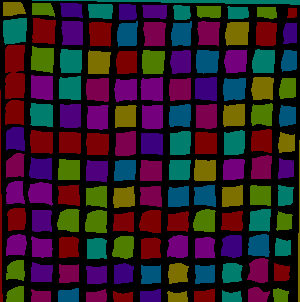
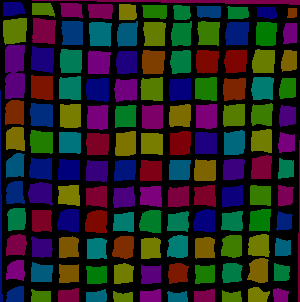
hsv mod

diff --git a/impIMG.py b/impIMG.py
@@ -1,5 +1,5 @@
 # Here we go
-
+import time
 import cv2
 import sys
 import random
@@ -8,9 +8,9 @@ def show(im):
 	cv2.imshow('image',im)
 	cv2.waitKey(0)
 
-def imin():
+def imin(fn):
 
-	im = cv2.imread("grid.png")
+	im = cv2.imread(fn)
 	
 	gim = cv2.cvtColor(im, cv2.COLOR_BGR2GRAY)
 
@@ -68,19 +68,10 @@ class swampland:
 		self.baseHSV_Sets = []
 		satBase = 255
 		valBase = 125
-		base_color_pool = [
-			[  int(0/360*179),satBase,valBase],
-			[ int(55/360*179),satBase,valBase],
-			[ int(84/360*179),satBase,valBase],
-			[int(173/360*179),satBase,valBase],
-			[int(270/360*179),satBase,valBase],
-			[int(281/360*179),satBase,valBase],
-			[int(298/360*179),satBase,valBase],
-			[int(325/360*179),satBase,valBase],
-			[int(360/360*179),satBase,valBase],
-			[int(200/360*179),satBase,valBase]
-			# [int(360),0,125]
-		]
+		# HueList = [0,55,84,173,200,270,281,298,325,360]
+		HueList = [i for i in range(0,360)]
+		base_color_pool = [[Hue*179/360,satBase,valBase] for Hue in HueList]
+
 		i = 0
 		for pog in porg:
 			if i == len(base_color_pool): i = 0
@@ -92,30 +83,51 @@ class swampland:
 
 		self.hsvPaintIT()
 
+	def getLen(self):
+		return(len(self.coordsets))
+
+	def modSAT(self,i,val):
+		for pix in self.coordsets[i]:
+			self.imOUT[pix[0],pix[1]][1] = val
+
+	def modHUE(self,i,val):
+		for pix in self.coordsets[i]:
+			self.imOUT[pix[0],pix[1]][0] = val
+
+	def modVAL(self,i,val):
+		for pix in self.coordsets[i]:
+			self.imOUT[pix[0],pix[1]][2] = val
+
+
+	def write(self):
+		cv2.imwrite('hodor.png',cv2.cvtColor(self.imOUT,cv2.COLOR_HSV2BGR))
 
 	def hsvPaintIT(self):
-		self.imOUT
 		for i in range(0,len(self.coordsets)):
 			for pix in self.coordsets[i]:
-				# print(self.baseHSV_Sets[i])
 				self.imOUT[pix[0],pix[1]] = self.baseHSV_Sets[i]
 
 
-
-
-if __name__ == '__main__':
+def initObj(fn):
 	# sys.setrecursionlimit(40000)
-	im = imin()
+	im = imin(fn)
 	patches = HellDriver(im)
 	pim = paint_it(patches,im)
 	# show(pim)
-	cv2.imwrite('coloredin.png',pim)
+	# cv2.imwrite('coloredin.png',pim)
 	cpim = cv2.cvtColor(pim,cv2.COLOR_GRAY2BGR)
 	hpim = cv2.cvtColor(cpim,cv2.COLOR_BGR2HSV)
 	# cv2.imwrite('hsvim.png',cpim)
 	swamptreats = swampland(patches,hpim)
-	cv2.imwrite('hodor.png',cv2.cvtColor(swamptreats.imOUT,cv2.COLOR_HSV2BGR))
-# index
-# append
-# if black or 0, newlist
-# goto 45
+	swamptreats.write()
+	return(swamptreats)
+
+if __name__ == '__main__':
+	swampy = initObj('grid.png')
+	i = 0
+	while True:
+		for i in range(0,swampy.getLen()):
+			swampy.modVAL(i,random.randint(0,255))
+		swampy.write()
+		time.sleep(1)
+
